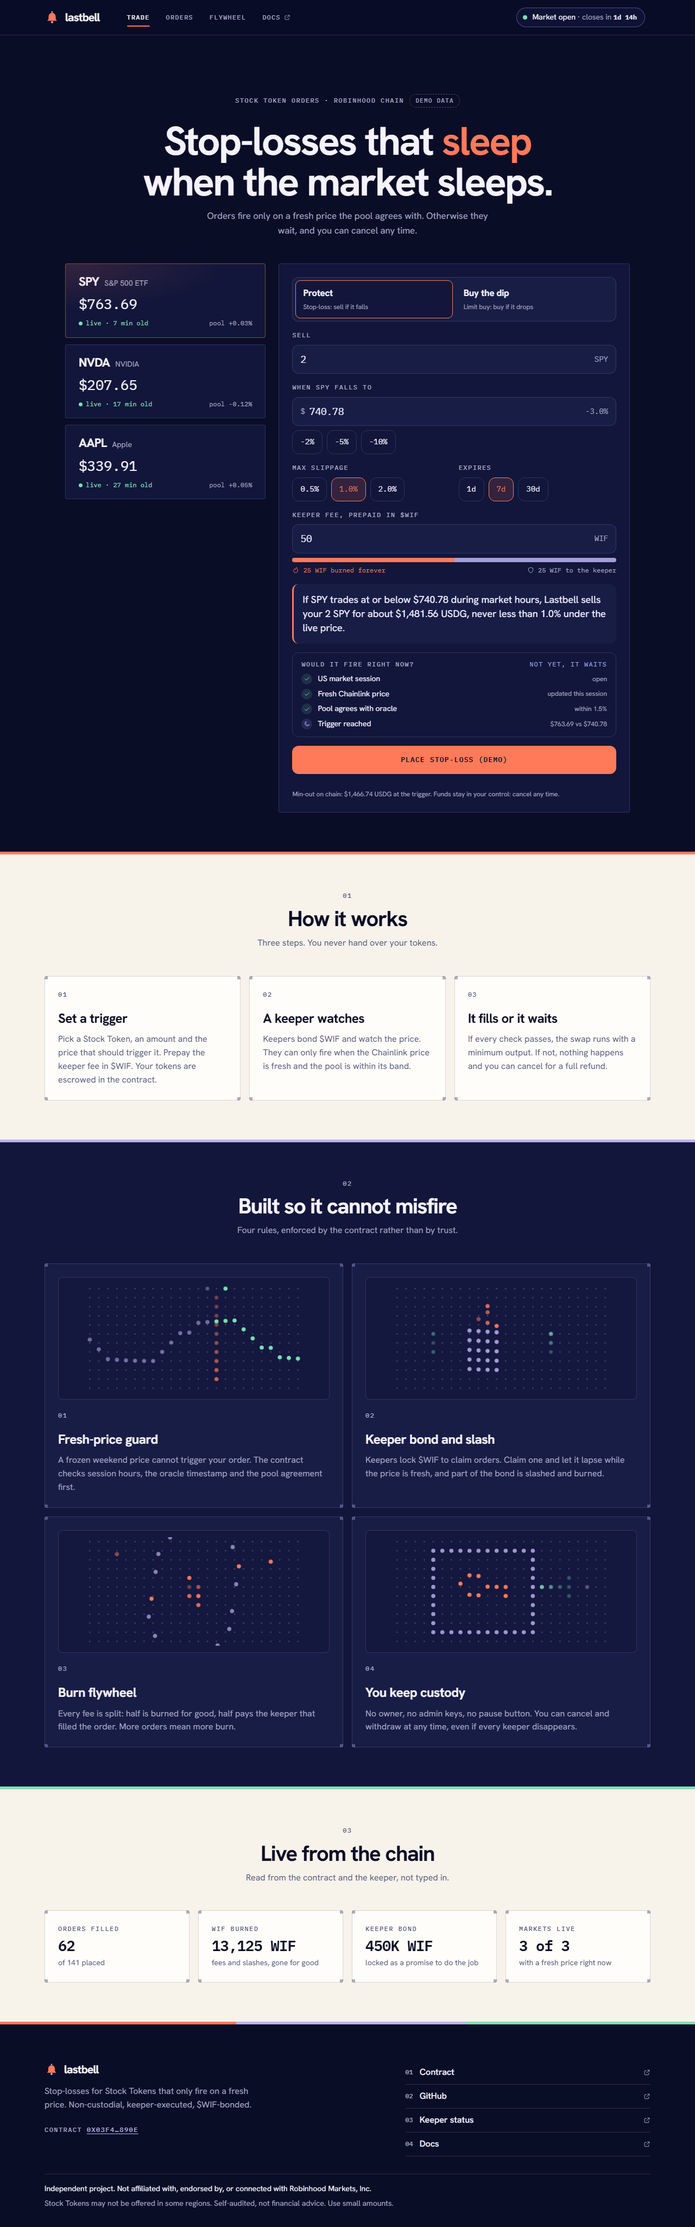
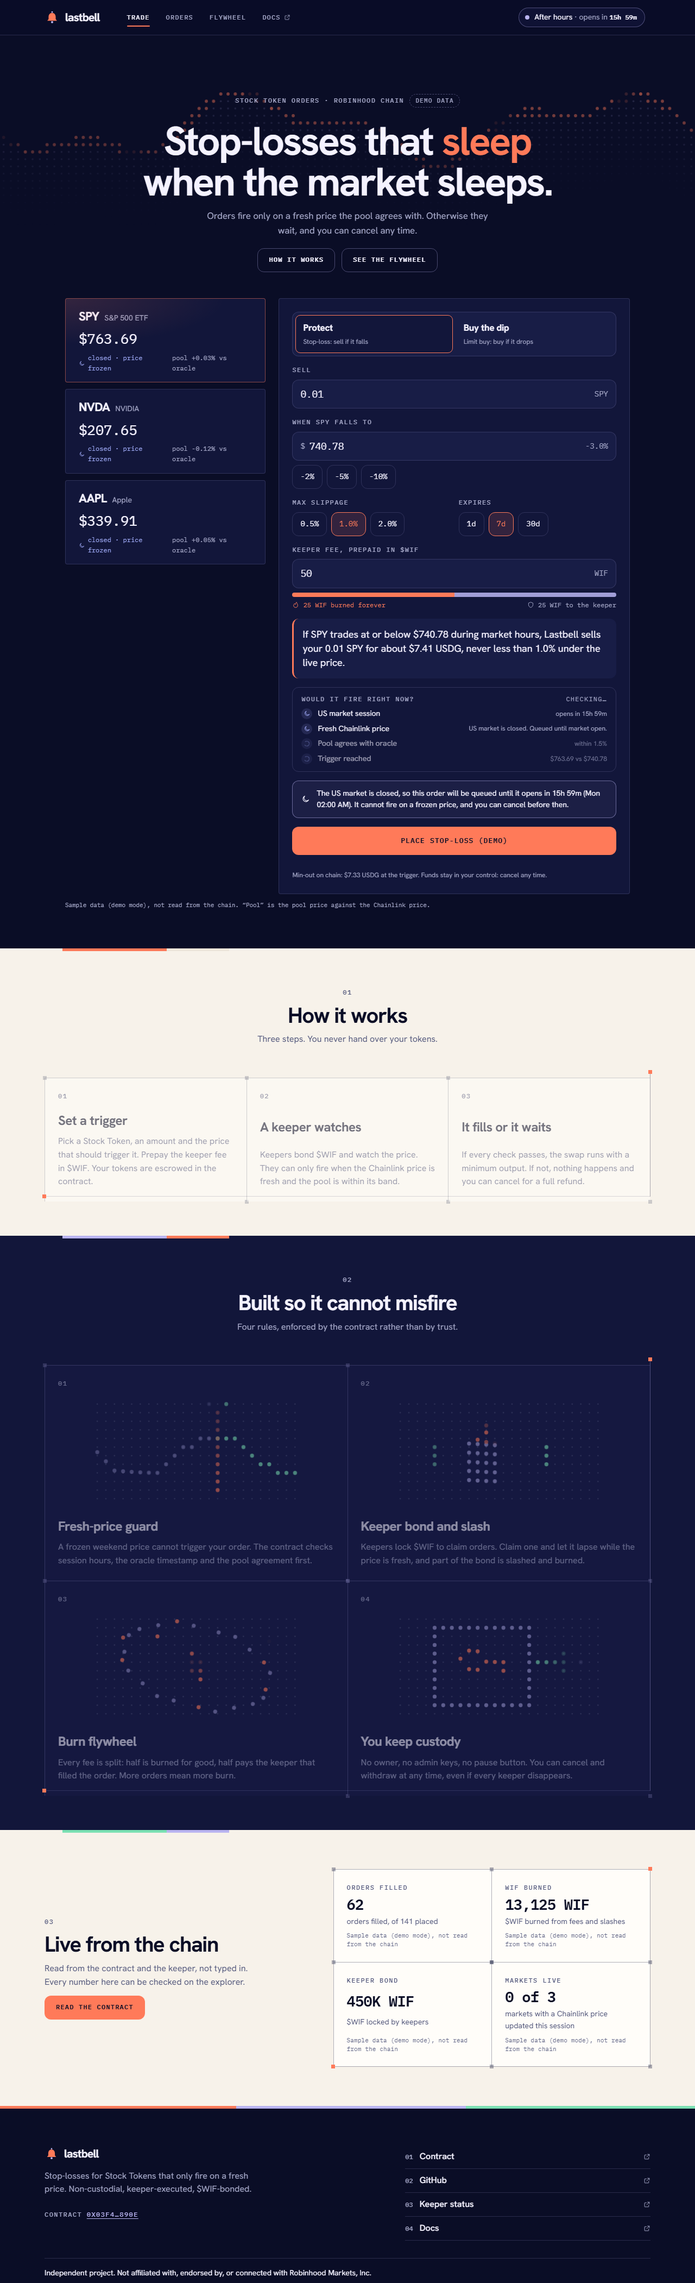
Order 1 recorded; brand wording sweep; source, period and item on every site statistic; Try it as a judge

diff --git a/web/src/screens/Flywheel.tsx b/web/src/screens/Flywheel.tsx
@@ -4,6 +4,7 @@ import type { ReactNode } from "react";
 import { BondSlashArt, BurnFlywheelArt } from "../components/dots.js";
 import { Flame, Moon, Shield } from "../components/icons.js";
 import { TickingNumber } from "../components/Ticking.js";
+import { SOURCE } from "../lib/sources.js";
 import { ago, compact, num, shortAddress, usd, wif } from "../lib/format.js";
 import type { FlywheelStats, UiMarket } from "../model.js";
 
@@ -30,20 +31,24 @@ export function FlywheelScreen({ stats, markets, now }: { stats: FlywheelStats; 
             <Tile label="WIF burned" icon={<Flame size={14} />}>
               <TickingNumber className="stat-value num burn-text" value={burned} format={(n) => Math.round(n).toLocaleString("en-US")} />
               <span className="muted stat-note">
-                {wif(stats.burnedFromFees)} from fees, {wif(stats.slashedBurned)} slashed
+                $WIF burned: {wif(stats.burnedFromFees)} from fees, {wif(stats.slashedBurned)} slashed
               </span>
+              <span className="stat-src">{SOURCE.burned()}</span>
             </Tile>
             <Tile label="Orders filled">
               <TickingNumber className="stat-value num" value={stats.fills} format={(n) => num(Math.round(n))} />
-              <span className="muted stat-note">of {num(stats.orders)} placed</span>
+              <span className="muted stat-note">orders filled, of {num(stats.orders)} placed</span>
+              <span className="stat-src">{SOURCE.fills()}</span>
             </Tile>
             <Tile label="Paid to keepers">
               <TickingNumber className="stat-value num" value={stats.paidToKeepers} format={wif} />
-              <span className="muted stat-note">their half of every fee</span>
+              <span className="muted stat-note">$WIF paid to keepers, their half of each fee</span>
+              <span className="stat-src">{SOURCE.paid()}</span>
             </Tile>
             <Tile label="Bonded by keepers" icon={<Shield size={14} />}>
               <TickingNumber className="stat-value num" value={stats.bonded} format={wif} />
-              <span className="muted stat-note">{wif(stats.prepaid)} of fees prepaid, not yet earned</span>
+              <span className="muted stat-note">$WIF locked by keepers; {wif(stats.prepaid)} of prepaid fees not yet earned</span>
+              <span className="stat-src">{SOURCE.bondedAndHeld()}</span>
             </Tile>
           </div>
         </div>
@@ -68,7 +73,7 @@ export function FlywheelScreen({ stats, markets, now }: { stats: FlywheelStats; 
 
           <div className="fw-split" aria-label="Where fees have gone">
             <div className="fw-split-head">
-              <span className="label">Where fees have gone so far</span>
+              <span className="label">Where fees have gone, all time</span>
               <span className="num">{wif(fees)}</span>
             </div>
             <div className="fee-bar">
@@ -83,6 +88,7 @@ export function FlywheelScreen({ stats, markets, now }: { stats: FlywheelStats; 
                 <Shield size={13} /> {wif(stats.paidToKeepers)} to keepers
               </span>
             </div>
+            <span className="stat-src">{SOURCE.feeSplit()}</span>
           </div>
         </div>
       </section>
@@ -137,6 +143,7 @@ export function FlywheelScreen({ stats, markets, now }: { stats: FlywheelStats; 
                   </table>
                 </div>
               )}
+              <span className="stat-src">{SOURCE.keepers()}. Cron status: the keeper's public /status page, latest run.</span>
               {stats.lastRun && <p className="fine muted">Last run: {stats.lastRun.summary}</p>}
             </div>
 
@@ -170,6 +177,7 @@ export function FlywheelScreen({ stats, markets, now }: { stats: FlywheelStats; 
           </div>
           <div className="fw-gates">
             <div className="cell cell-pad">
+              <span className="stat-src stat-src-top">{SOURCE.gates()}</span>
               <ul className="gates">
                 {markets.map((m) => (
                   <li key={m.symbol}>

diff --git a/web/src/screens/Trade.tsx b/web/src/screens/Trade.tsx
@@ -7,6 +7,7 @@ import { TickingNumber } from "../components/Ticking.js";
 import { localWhen, num, pct, usd, wif } from "../lib/format.js";
 import { EXPLORER_CONTRACT_URL } from "../links.js";
 import { defaultAmount } from "../lib/defaults.js";
+import { SOURCE } from "../lib/sources.js";
 import { formatCountdown } from "../lib/time.js";
 import type { FlywheelStats, OrderKind, UiMarket } from "../model.js";
 
@@ -70,6 +71,7 @@ export function TradeScreen(props: {
             </div>
             {market && <Ticket market={market} clock={clock} now={now} action={props.action} minFeeWif={props.minFeeWif ?? DEFAULT_MIN_FEE_WIF} />}
           </div>
+          <p className="data-note">{SOURCE.prices()}. “Pool” is the pool price against the Chainlink price.</p>
         </div>
       </section>
 
@@ -158,11 +160,11 @@ function Reveal({ className, children }: { className?: string; children: ReactNo
 
 function StatTiles({ stats, markets }: { stats?: FlywheelStats; markets: UiMarket[] }) {
   const live = markets.filter((m) => m.gate === "fresh").length;
-  const tiles: { label: string; value?: number; fmt: (n: number) => string; note: string }[] = [
-    { label: "Orders filled", value: stats?.fills, fmt: (n) => num(Math.round(n)), note: stats ? `of ${num(stats.orders)} placed` : "" },
-    { label: "WIF burned", value: stats ? stats.burnedFromFees + stats.slashedBurned : undefined, fmt: wif, note: "fees and slashes, gone for good" },
-    { label: "Keeper bond", value: stats?.bonded, fmt: wif, note: "locked as a promise to do the job" },
-    { label: "Markets live", value: markets.length ? live : undefined, fmt: (n) => `${Math.round(n)} of ${markets.length}`, note: "with a fresh price right now" },
+  const tiles: { label: string; value?: number; fmt: (n: number) => string; note: string; src: string }[] = [
+    { label: "Orders filled", value: stats?.fills, fmt: (n) => num(Math.round(n)), note: stats ? `orders filled, of ${num(stats.orders)} placed` : "", src: SOURCE.fills() },
+    { label: "WIF burned", value: stats ? stats.burnedFromFees + stats.slashedBurned : undefined, fmt: wif, note: "$WIF burned from fees and slashes", src: SOURCE.burned() },
+    { label: "Keeper bond", value: stats?.bonded, fmt: wif, note: "$WIF locked by keepers", src: SOURCE.bonded() },
+    { label: "Markets live", value: markets.length ? live : undefined, fmt: (n) => `${Math.round(n)} of ${markets.length}`, note: "markets with a Chainlink price updated this session", src: SOURCE.marketsLive() },
   ];
   return (
     <div className="bento bento-2 joined stat-grid">
@@ -171,6 +173,7 @@ function StatTiles({ stats, markets }: { stats?: FlywheelStats; markets: UiMarke
           <span className="label">{t.label}</span>
           {t.value === undefined ? <span className="skeleton stat-skel" aria-label="Loading" /> : <TickingNumber className="stat-value num" value={t.value} format={t.fmt} />}
           <span className="muted stat-note">{t.note}</span>
+          <span className="stat-src">{t.src}</span>
         </div>
       ))}
     </div>
@@ -214,7 +217,7 @@ function MarketCard({ m, active, onSelect, now }: { m: UiMarket; active: boolean
             <Moon size={12} /> {m.gate === "market-closed" ? "closed · price frozen" : "stale · not trusted"}
           </span>
         )}
-        <span className="muted num">pool {pct(drift)}</span>
+        <span className="muted num">pool {pct(drift)} vs oracle</span>
       </div>
       {active && <motion.span layoutId="market-glow" className="market-glow" />}
     </motion.button>

diff --git a/web/src/lib/sources.ts b/web/src/lib/sources.ts
@@ -1,0 +1,22 @@
+import { DEMO } from "../config.js";
+
+/**
+ * Every statistic on the site says what it measures, over what period and where the number comes from.
+ * In demo mode the numbers are samples, and the line says so.
+ */
+export const SAMPLE = "Sample data (demo mode), not read from the chain";
+
+const live = (period: string, reads: string) => (DEMO ? SAMPLE : `${period} · Lastbell contract on Robinhood Chain (${reads})`);
+
+export const SOURCE = {
+  fills: () => live("All time since deployment", "totalFills, orderCount"),
+  burned: () => live("All time since deployment", "totalFeesBurned, totalSlashed"),
+  paid: () => live("All time since deployment", "totalKeeperPaid"),
+  bonded: () => live("Right now", "totalBonded"),
+  bondedAndHeld: () => live("Right now", "totalBonded, totalFeeHeld"),
+  marketsLive: () => live("Right now", "gate() per market"),
+  feeSplit: () => live("All time since deployment", "totalFeesBurned, totalKeeperPaid"),
+  keepers: () => live("Per keeper, all time", "keepers()"),
+  gates: () => live("Right now", "gate(): Chainlink price and update time, Uniswap v3 pool price"),
+  prices: () => (DEMO ? SAMPLE : "Chainlink price and update time, and the Uniswap v3 pool price, read now via the Lastbell contract (gate())"),
+};

diff --git a/keeper/src/index.ts b/keeper/src/index.ts
@@ -11,7 +11,7 @@ export interface Env {
   /**
    * Secret: a private RPC endpoint (for example an Alchemy URL containing an API key), set with
    * `wrangler secret put RPC_URL_PRIVATE`. Preferred over RPC_URL: the public RPC is rate-limited per IP,
-   * Cloudflare egress addresses are shared, and Robinhood's docs say not to use it in production.
+   * Cloudflare egress addresses are shared, and Robinhood Chain's docs say not to use it in production.
    */
   RPC_URL_PRIVATE?: string;
   /** Lastbell contract. Until set the keeper reports "not configured". */

diff --git a/web/src/styles/trade.css b/web/src/styles/trade.css
@@ -749,3 +749,28 @@
     animation: none;
   }
 }
+
+/* every statistic names its source and period */
+.stat-src {
+  font-family: var(--font-mono);
+  font-size: 0.68rem;
+  line-height: 1.45;
+  letter-spacing: 0.02em;
+  color: var(--muted);
+  opacity: 0.9;
+}
+.stat-src-top {
+  display: block;
+  margin-bottom: var(--sp-3);
+}
+.stat-tile .stat-src {
+  margin-top: 2px;
+}
+.data-note {
+  max-width: 1040px;
+  margin: var(--sp-3) auto 0;
+  font-family: var(--font-mono);
+  font-size: 0.68rem;
+  line-height: 1.5;
+  color: var(--muted);
+}

diff --git a/keeper/scripts/feeds.ts b/keeper/scripts/feeds.ts
@@ -1,4 +1,4 @@
-// Lists every Stock Token feed in Chainlink's Robinhood directory with live on-chain state.
+// Lists every Stock Token feed in Chainlink's Robinhood Chain directory with live on-chain state.
 // Usage: npm run spike:feeds -w keeper
 import { readFileSync } from "node:fs";
 import { formatUnits, parseAbi, type Address } from "viem";

diff --git a/shared/src/marketHours.ts b/shared/src/marketHours.ts
@@ -1,4 +1,4 @@
-// US equity 24/5 session model used by Chainlink's tokenized equity feeds.
+// US equity 24/5 session model used by Chainlink's Stock Token feeds.
 //
 // A trading day D (Mon-Fri, Eastern date) runs from 20:00 ET on D-1 until 20:00 ET on D.
 // So Monday's session opens Sunday 20:00 ET, and the week closes Friday 20:00 ET.

diff --git a/README.md b/README.md
@@ -51,7 +51,7 @@ More orders mean more fees, more burn and more keeper income, which pulls in mor
 | [`contracts/`](contracts) | Solidity (Hardhat 3, viem): escrow, gate, keeper registry, fee split | Robinhood Chain |
 | [`keeper/`](keeper) | Order executor and public `/status` | Cloudflare Worker, 1-minute cron |
 | [`web/`](web) | React app (Trade, Orders, Flywheel) and the region-notice Function | Cloudflare Pages |
-| [`shared/`](shared) | Chain config, verified addresses, market hours, the freshness gate | used by keeper and web |
+| [`shared/`](shared) | Robinhood Chain config, verified addresses, market hours, the freshness gate | used by keeper and web |
 
 Docs: [CONTRACTS](docs/CONTRACTS.md), [KEEPER](docs/KEEPER.md), [DEPLOY](docs/DEPLOY.md), [DEMO-PATH](docs/DEMO-PATH.md), [UI audit](docs/UI-AUDIT.md), [feasibility](docs/FEASIBILITY.md).
 
@@ -65,6 +65,19 @@ Docs: [CONTRACTS](docs/CONTRACTS.md), [KEEPER](docs/KEEPER.md), [DEPLOY](docs/DE
 | Security | [SECURITY.md](SECURITY.md) |
 | Contract audit | [docs/AUDIT.md](docs/AUDIT.md) |
 | Keeper and web audit | [docs/AUDIT-KEEPER-WEB.md](docs/AUDIT-KEEPER-WEB.md) |
+
+## Try it as a judge
+
+About 10 minutes and roughly **0.0003 ETH** (under a dollar), on real Robinhood Chain. Nothing here needs our help, and you can cancel your order at any time.
+
+1. **Wallet.** Use a browser wallet such as MetaMask or Rabby. Open https://lastbell-cyk.pages.dev, click **Connect wallet**, and if it says your wallet is on another network, click **Switch to Robinhood Chain** (chain ID 4663, RPC `https://rpc.mainnet.chain.robinhood.com`; the wallet will offer to add it).
+2. **ETH for gas and swaps.** Bridge about 0.0003 ETH to Robinhood Chain with [Relay](https://relay.link/bridge/robinhood), [Across](https://across.to/?to=robinhood) or the [Arbitrum bridge](https://portal.arbitrum.io/bridge?destinationChain=robinhood-chain&sourceChain=ethereum). Fees on the source chain can exceed an amount this small, so pick the cheapest route.
+3. **A tiny amount of NVDA.** On [Uniswap](https://app.uniswap.org) (network: Robinhood Chain), swap about **0.0001 ETH for NVDA**. That buys roughly 0.001 NVDA (about $0.20), which is plenty. Check the token address on the swap screen: the NVDA Stock Token is the one in [`shared/src/markets.ts`](shared/src/markets.ts).
+4. **A little $WIF.** On Uniswap swap about **0.00003 ETH for WIF** (about 40 WIF, enough for one order at the 20 WIF minimum fee). Paste `0x5173b8ea6923c2d40267890d45c46a3480954773` into the token search and check it reads **WIF**. Most other WIF pools are nearly empty, so if the quote is far below about 1,500 WIF per 0.001 ETH, stop and pick a different pool.
+5. **Place a small stop-loss.** On the Trade screen click **NVDA**, set the amount to **0.001**, and the trigger a little **above** the live price (for example +1%) so it is already triggered. Check that **Would it fire right now?** shows four ticks, then click **Place stop-loss** and confirm in your wallet. You will see up to three prompts: approve NVDA, approve $WIF (both for the exact amount), then place.
+6. **Watch the keeper fill it.** Open **Orders**. The card moves from **Watching** to **Triggered** to **Filled**, usually within a couple of minutes, and a **Fill tx** link opens the transaction. The Flywheel screen shows the burn. The keeper's public log is at **https://lastbell-keeper.plumbline-app.workers.dev/status** (open orders by state, the keeper's bond and its latest run).
+
+If the market is closed (the chip at the top says so), the order is accepted and shows **queued until the market opens**. That is the point of the product: it does not fire on a frozen price, and it fills after the next open. Order 1 on mainnet is exactly that case. If your region is restricted the site turns order creation off but still lets you look around.
 
 ## Transactions on Robinhood Chain
 
@@ -81,8 +94,11 @@ Every mainnet transaction, with notes, is in [docs/TRANSACTIONS.md](docs/TRANSAC
[6 lines of base64/hex data omitted]
 
-Funding transfers into the two wallets are not listed. A limit buy, a cancel and a weekend order have not been run on mainnet yet. They are covered by the contract tests, and place, fill and cancel were also run on a local chain.
+Funding transfers into the two wallets are not listed. Order 1 is a weekend order: it was placed on a Sunday with the market closed, and it waits as **queued until market open**, which is the point of the product. A limit buy and a cancel have not been run on mainnet yet. They are covered by the contract tests, and place, fill and cancel were also run on a local chain.
 
 ## Screenshots
 

diff --git a/docs/TRANSACTIONS.md b/docs/TRANSACTIONS.md
@@ -32,3 +32,4 @@ Robinhood Chain (4663). Explorer: [robinhoodchain.blockscout.com](https://robinh
 | # | What | Transactions | State |
 |---|---|---|---|
 | 0 | **Stop-loss, NVDA**: sell 0.0001 NVDA (≈ $0.02) if it falls to $205 (live price $199.29, so triggered at once), 1% slippage, 20 WIF fee. Placed from the deployer wallet through the live site | Approve NVDA (exactly 0.0001) [`0xae72ea2f…c04a2b`](https://robinhoodchain.blockscout.com/tx/0xae72ea2f534c716dc86494fa81e8d1f590806cf3acecc05b32f5512137c04a2b) · Approve WIF (exactly 20) [`0x0d2cbbbf…8cf61d`](https://robinhoodchain.blockscout.com/tx/0x0d2cbbbf9ac0e922f800680dd856ac55e576566536c6df8407231e050a8cf61d) · Place [`0xa22fa593…1f65e2`](https://robinhoodchain.blockscout.com/tx/0xa22fa59366dda3bbe07381b92a15f91819841a97394a0c1ae300e45b401f65e2) · Claim [`0x2952bf02…0f78bb`](https://robinhoodchain.blockscout.com/tx/0x2952bf0257c6277ac6743f1494111dca7470ade939ae78629d0ade467f0f78bb) · Fill [`0x8c0e99ca…4e1a90`](https://robinhoodchain.blockscout.com/tx/0x8c0e99caed66ccc09104064f5702e021c05740dd2eb9b9fcdb67c878154e1a90) | **Filled.** Placed 09:52:28 UTC, **claimed by the keeper at 09:52:47** (19 s later, on the next cron run), **filled at 09:52:48** (block 106647043). Received 0.019942 USDG against a contract minimum of 0.019730. Fee split in the fill: **10 WIF burned** (`Transfer Lastbell → 0x0`) and **10 WIF to the keeper**. Fill gas 392,244. Keeper bond intact (1,000 WIF), 0 slashes |
+| 1 | **Stop-loss, NVDA, placed on a Sunday: sell 0.0001 NVDA (≈ $0.02) if it falls to $182.59** (the last NVDA price on chain is $188.24, from Friday 6 Nov 22:30 UTC, so it is not triggered), 1% slippage, 20 WIF fee, expires 15 Nov 08:53 UTC. Placed from the deployer wallet through the live site | Approve NVDA (exactly 0.0001) [`0xaee45f40…6e517c`](https://robinhoodchain.blockscout.com/tx/0xaee45f407aa6eb346ee08f3eb00771a62fd0905f86fcd11e87d4ce1d366e517c) · Approve WIF (exactly 20) [`0xcd88904c…9cb7ee`](https://robinhoodchain.blockscout.com/tx/0xcd88904c4ac78fb5a8288b619e0025398374bd639289823992bcac08619cb7ee) · Place [`0x1ea41b89…391ad0`](https://robinhoodchain.blockscout.com/tx/0x1ea41b895ec6494f285fab3a436c74e3a5404e749ad1bf49a11e0eaa39391ad0) | **Open and queued, not touched.** Approvals at 08:54:27 and 08:54:41 UTC (blocks 109107319 and 109107454, gas 63,613 and 45,961), place at 08:54:53 UTC (block 109107570, gas 297,037), all three succeeded. Checked on chain (read-only, 8 Nov 08:56 UTC): order 1 is open and unclaimed with the amount, trigger and fee above; NVDA `gate()` reads `market-closed`; the contract holds 0.0001 NVDA in escrow and 1,020 WIF (the 1,000 WIF keeper bond plus this order's 20 WIF fee); the keeper's `/status` shows 1 open order, `queued:market-closed`, bond intact. It stays queued until Monday's open and fills only if NVDA is at or below $182.59 on a fresh price |

diff --git a/SECURITY.md b/SECURITY.md
@@ -58,7 +58,7 @@ F1 and F2 led to a redeploy: the first contract was deployed and verified, then 
 ## Honest limits
 
 1. **This was a self-review.** The authors wrote the code and the audit. We wrote an attack test for each suspicion and ran it against the deployed code, and we checked the contract against an independent reference model with random sequences (25 seeds of 400 steps), but the same people did both. A third party would find things we did not.
-2. **$WIF liquidity is thin.** $WIF is a launchpad token that traded around $0.0014 with about 1,500 holders when we looked, and its pool is shallow. The bond (1,000 WIF) and the fee (20 WIF minimum) are worth about a dollar and a few cents. So the bond is a **weak economic deterrent** today, and the slash is symbolic at this size. We chose small amounts on purpose. **The contract's safety does not depend on the bond**: it enforces the gate and the minimum output whoever calls it. What the bond and the burn add is accountability and a visible flywheel, and they will only mean something if $WIF depth grows.
+2. **$WIF liquidity is thin.** $WIF is a launchpad token. On Blockscout on 1 Nov 2026 it was priced at about $0.00135 with 1,540 holders (docs/FEASIBILITY.md), and the main Uniswap pool is shallow. At that price the bond (1,000 WIF) is worth about $1.35 and the minimum fee (20 WIF) about 3 cents. So the bond is a **weak economic deterrent** today, and the slash is symbolic at this size. We chose small amounts on purpose. **The contract's safety does not depend on the bond**: it enforces the gate and the minimum output whoever calls it. What the bond and the burn add is accountability and a visible flywheel, and they will only mean something if $WIF depth grows.
 3. **Everything is immutable.** A bug in the deployed contract cannot be patched. The fix is a new deployment (as happened with v1), and orders on the old one are cancelled by their owners.
 4. **The region gate is a front-end gate.** It stops the site from creating orders where Stock Tokens may not be offered, using the country Cloudflare reports. It is not access control: the contract is permissionless, anyone can call it directly or use another front end, and a VPN defeats the gate. It is a good-faith notice, not a legal control.
 5. **One keeper.** Today a single keeper (ours) runs the 1-minute cron. If it is down, orders wait and nothing is lost. Anyone can bond and run another.

diff --git a/docs/PROGRESS.md b/docs/PROGRESS.md
@@ -9,7 +9,7 @@ Submissions close 12 Nov 2026, 17:30 UTC. Target submit 10 Nov. Feature freeze 9
 - [x] 5. Keeper: Cloudflare Worker, 1-minute cron, public `/status`. Pre-claim quote check, KV run log. See [KEEPER.md](KEEPER.md). Deploy pending task 8 (needs your Cloudflare login + keeper key)
 - [x] 6. Web app: three screens (Trade, Orders, Flywheel) with day/night market mood; wallet + wrong-network switch; exact approvals, place, cancel/refund with plain-English errors; armed / queued / executing / filled / expired / error states; live market clock; burn + keeper dashboard. Seeded demo mode. Verified with real transactions on a local chain (place → keeper fill → filled; error; cancel)
 - [x] 7. Region notice: Pages Function middleware stamps `request.cf.country` on the HTML (`private, no-store`); blocked or unknown (Tor/XX/unstamped production page) → blocking notice + order creation off; cancel and refunds always stay available. Verified locally with `wrangler pages dev`
-- [ ] 8. Mainnet deploy (v2, audited, verified), keeper Worker, site, first real order filled by the keeper on chain: [TRANSACTIONS.md](TRANSACTIONS.md). Remaining: a limit buy, a cancel, and a weekend order
+- [ ] 8. Mainnet deploy (v2, audited, verified), keeper Worker, site, first real order filled by the keeper on chain: [TRANSACTIONS.md](TRANSACTIONS.md). Order 1 (weekend, queued until open) placed 8 Nov. Remaining: a limit buy and a cancel
 - [x] 9. Audit + SECURITY.md: [AUDIT.md](AUDIT.md), [AUDIT-KEEPER-WEB.md](AUDIT-KEEPER-WEB.md), [SECURITY.md](../SECURITY.md)
 - [x] 10. Submission pack: README, [DEMO-PATH.md](DEMO-PATH.md)
 - [ ] 11. Final checks (10 Nov)

diff --git a/docs/FEASIBILITY.md b/docs/FEASIBILITY.md
@@ -2,13 +2,13 @@
 
 Read-only investigation of Robinhood Chain mainnet. Snapshot taken at block `103775309` (Sunday 1 Nov 2026, 23:45 UTC, markets closed). Every number below came from an RPC call, the Chainlink reference data directory, Blockscout or the official docs at that time. Raw data is in [`data/feasibility-snapshot.json`](data/feasibility-snapshot.json).
 
-## 1. Chain facts (verified)
+## 1. Robinhood Chain facts (verified)
 
 | Fact | Value | How verified |
 |---|---|---|
 | Chain ID | `4663` (`0x1237`) | `eth_chainId` on `https://rpc.mainnet.chain.robinhood.com` |
 | Explorer | `robinhoodchain.blockscout.com` | live; its API sits behind a Cloudflare check, so it works in a browser but not from `curl` |
-| Stack | Arbitrum Orbit L2, ETH for gas | Uniswap + Robinhood docs |
+| Stack | Arbitrum Orbit L2, ETH for gas | Uniswap + Robinhood Chain docs |
 | Public RPC limits | 10M blocks per `eth_getLogs`, one topic value per position for wide ranges, max 10k logs per call, no archive state, rate-limited (HTTP 429) | observed |
 | Multicall3 | `0xcA11bde05977b3631167028862bE2a173976CA11` | worked for batched reads |
 | USDG (stablecoin) | `0x5fc5360D0400a0Fd4f2af552ADD042D716F1d168`, 6 decimals | docs Token Contracts page + `decimals()` |
